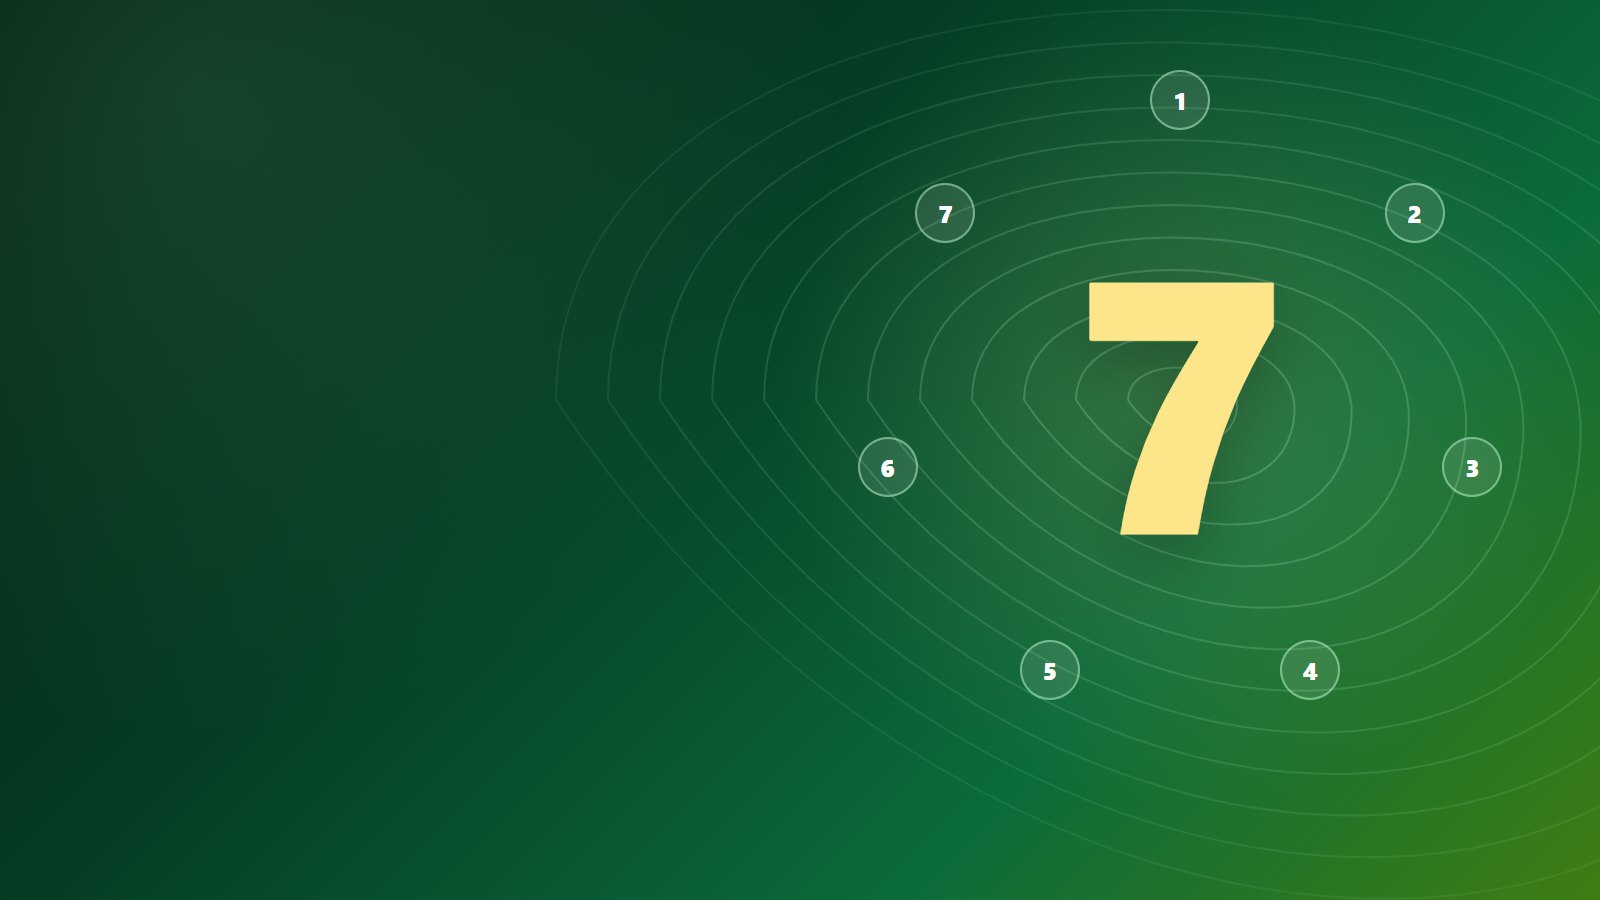
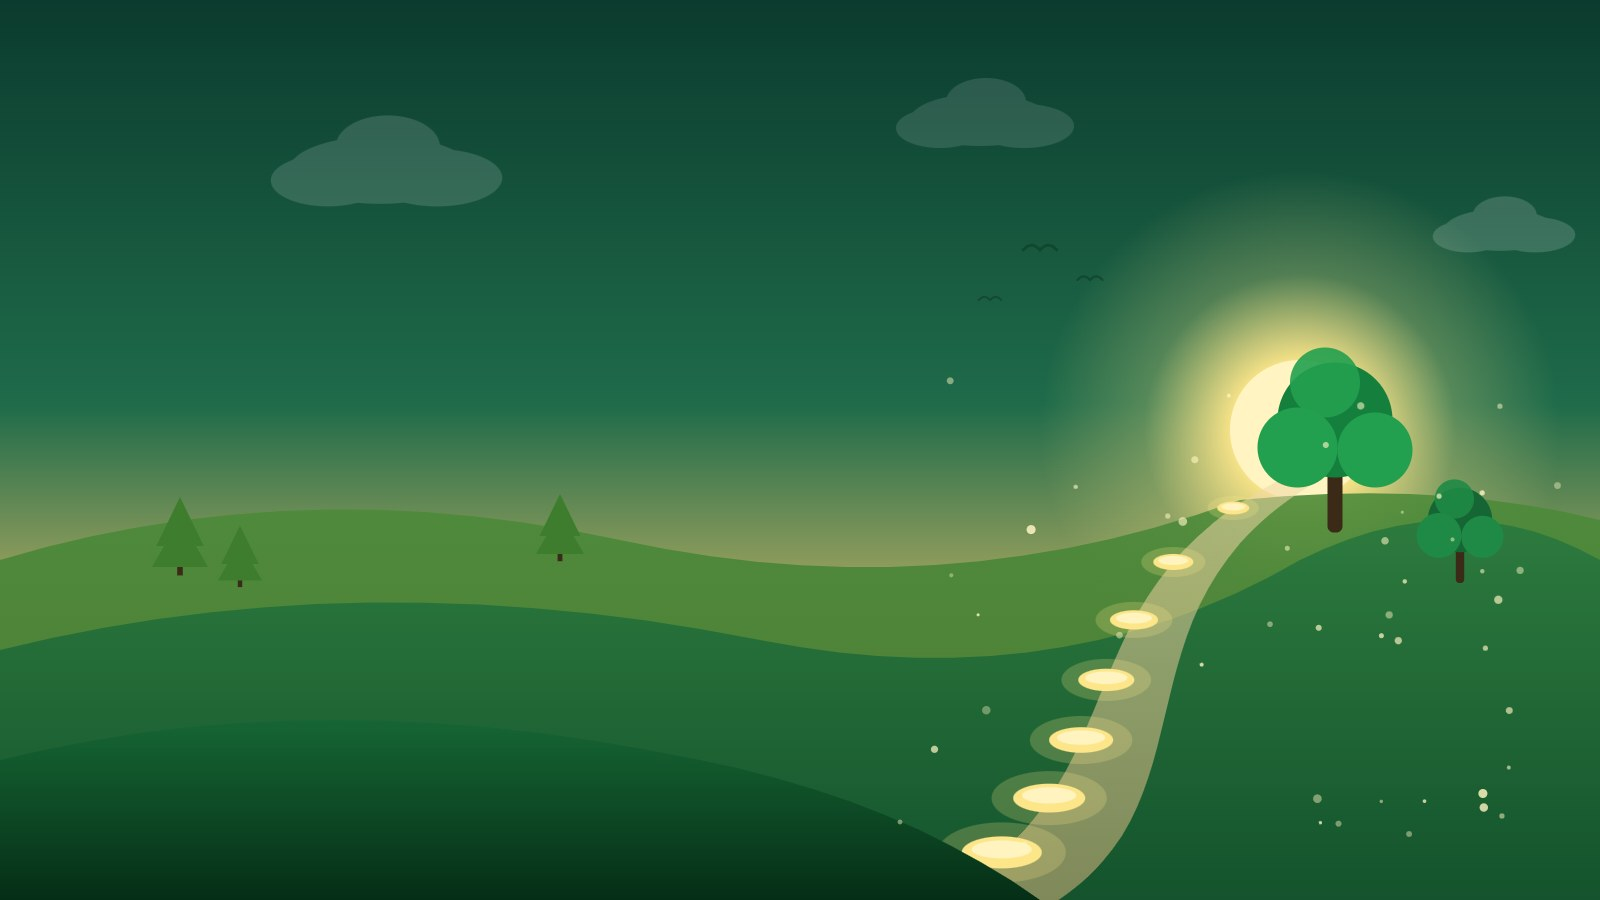
EventHub: illustrated cover pictures for both events
- 7 Days of Karma: sunrise over hills with seven glowing stepping stones
  leading to a tree. 7-Day Green Impact Challenge: campus on a hill with
  recycling bins and falling leaves. Both are text-free 1600x900 JPEGs in
  public/event-banners, served by the site, and set as each event's banner.
- Banners keep the right-hand subject in view on narrow (phone) screens.
- Participate: "approved" counter shows as one number (1/7).

diff --git a/src/components/events/EventUI.tsx b/src/components/events/EventUI.tsx
@@ -352,10 +352,20 @@ export function Contours({ color = '#ffffff', opacity = 0.12, width = 600, heigh
 /** Event banner: the uploaded image, or category art (gradient, contours, icon). Never a stock photo. */
 export function Banner({ uri, height, title, category, radius = 0, iconTop }: { uri?: string; height: number; title: string; category?: string; radius?: number; iconTop?: boolean }) {
   const t = categoryTheme(category);
+  const [boxW, setBoxW] = useState(0);
   if (uri) {
+    // Covers are 16:9 with their subject on the right. When the box is narrower than
+    // 16:9 (phones), keep the right-hand side in view instead of cropping the middle.
+    const coverW = height * (16 / 9);
+    const narrow = boxW > 0 && boxW < coverW;
     return (
-      <View style={{ height, borderRadius: radius, overflow: 'hidden', backgroundColor: t.from }}>
-        <Image source={{ uri }} style={{ width: '100%', height }} resizeMode="cover" accessibilityLabel={title} />
+      <View onLayout={(e) => setBoxW(e.nativeEvent.layout.width)} style={{ height, borderRadius: radius, overflow: 'hidden', backgroundColor: t.from }}>
+        <Image
+          source={{ uri }}
+          style={narrow ? { position: 'absolute', top: 0, right: 0, width: coverW, height } : { width: '100%', height }}
+          resizeMode="cover"
+          accessibilityLabel={title}
+        />
         <LinearGradient colors={['transparent', 'rgba(2,20,10,0.45)']} style={{ position: 'absolute', left: 0, right: 0, bottom: 0, height: height * 0.5 }} />
       </View>
     );
